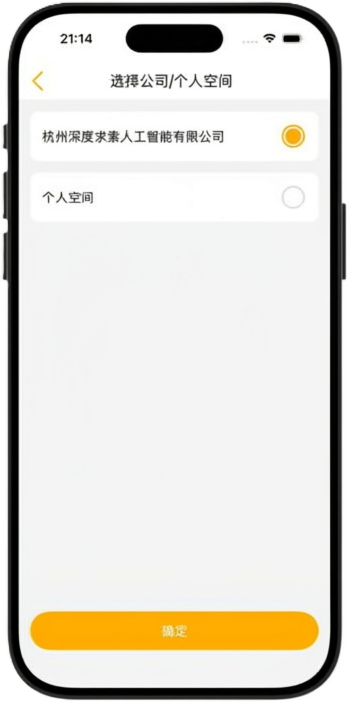
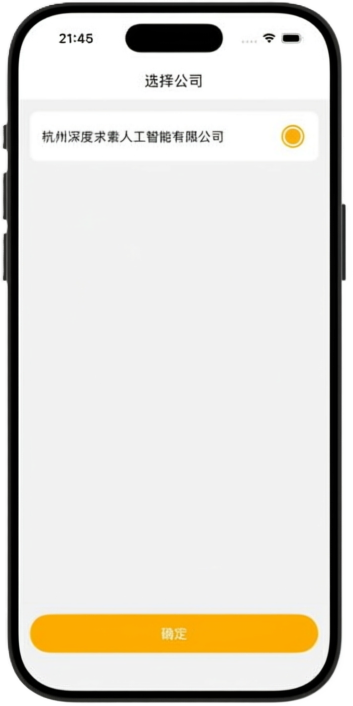
修改预览图

diff --git a/chat/UI/Pages/CompanyPage.swift b/chat/UI/Pages/CompanyPage.swift
@@ -97,7 +97,7 @@ struct CompanyPage: View {
             Spacer()
             
             // 标题
-            Text("选择公司/个人空间")
+            Text("选择公司")
                 .font(.system(size: Dimens.middleFont))
                 .foregroundColor(.black)
             